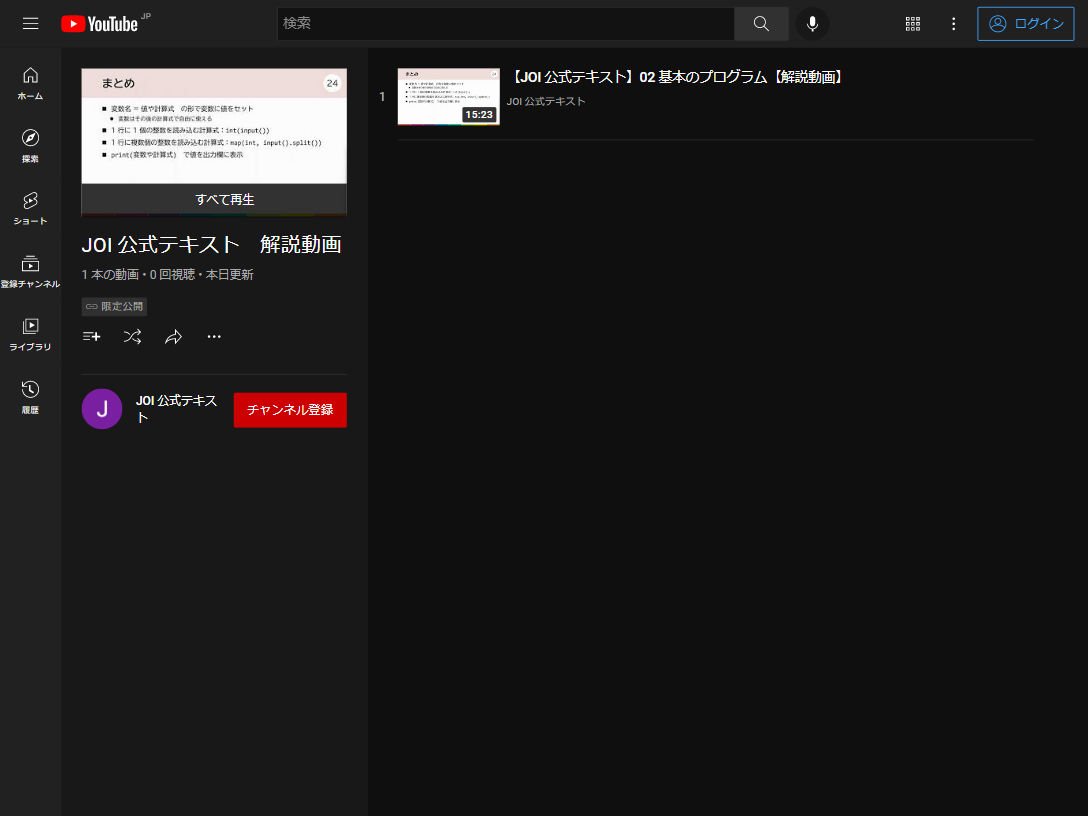
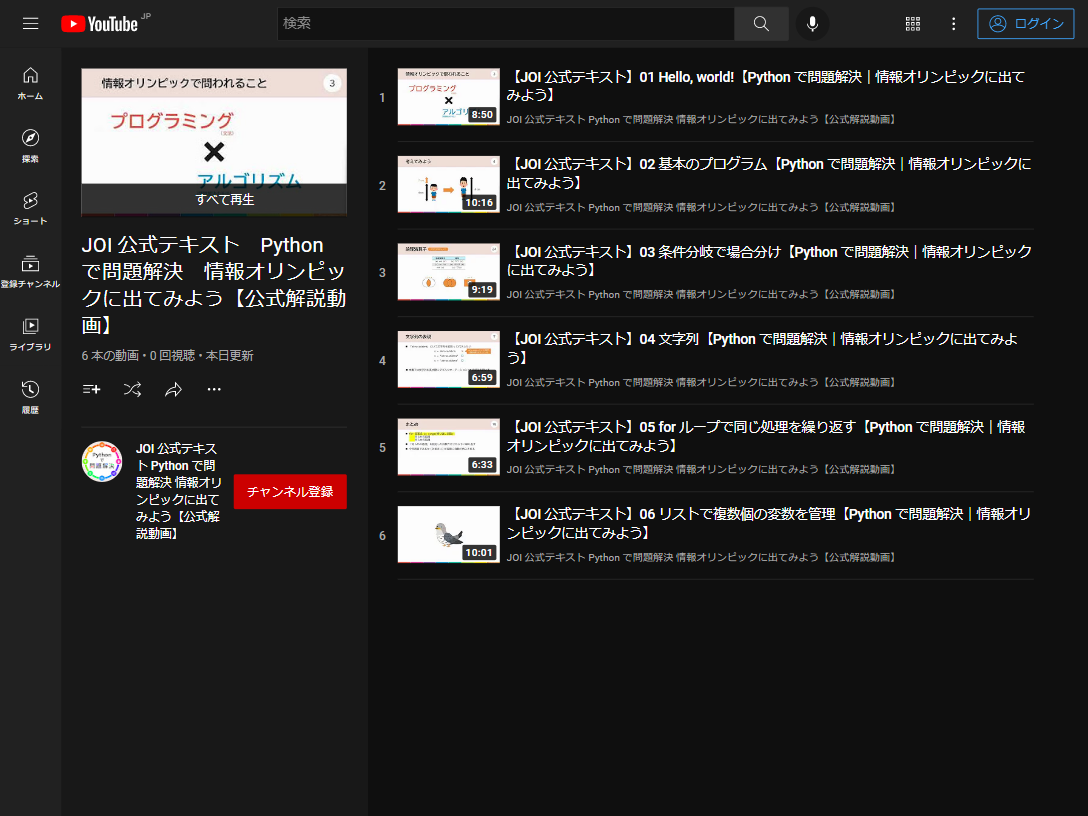
Update youtube play list

diff --git a/index.html b/index.html
@@ -5,16 +5,16 @@
   <meta charset="utf-8">
   <meta name="viewport" content="width=device-width, initial-scale=1, shrink-to-fit=no">
   <link href="index.css" rel="stylesheet">
-  <title>JOI 公式テキスト　Python で問題解決｜サポートページ</title>
+  <title>JOI 公式テキスト　Python で問題解決　情報オリンピックに出てみよう｜サポートページ</title>
 
   <meta name="description"
-    content="日本情報オリンピックの公式テキストが遂に登場！！ Python プログラミングからアルゴリズムまでを取り扱う一冊．未経験から本選進出までの道筋を提示．豊富なサンプルソース．自動採点システム完全対応．">
+    content="日本情報オリンピックの公式対策テキストが遂に登場！！ Pythonプログラミングからアルゴリズムまでを扱う一冊．未経験から本選進出までの道筋を提示．豊富なサンプルソース．過去問の自動採点システム対応．">
 
   <meta property="og:url" content="https://pro-ktmr.github.io/joi-text/" />
   <meta property="og:type" content="article" />
   <meta property="og:title" content="JOI 公式テキスト　Python で問題解決　情報オリンピックに出てみよう" />
   <meta property="og:description"
-    content="日本情報オリンピックの公式テキストが遂に登場！！ Python プログラミングからアルゴリズムまでを取り扱う一冊．未経験から本選進出までの道筋を提示．豊富なサンプルソース．自動採点システム完全対応．" />
+    content="日本情報オリンピックの公式対策テキストが遂に登場！！ Pythonプログラミングからアルゴリズムまでを扱う一冊．未経験から本選進出までの道筋を提示．豊富なサンプルソース．過去問の自動採点システム対応．" />
   <meta property="og:image" content="https://pro-ktmr.github.io/joi-text/img/ogp.jpg" />
   <meta property="og:site_name" content="JOI 公式テキスト　Python で問題解決　情報オリンピックに出てみよう" />
   <meta name="twitter:card" content="summary" />
@@ -43,7 +43,7 @@
   </div>
   <div class="top">
     <h2 class="book-copy">
-      <span class="no-break">日本情報オリンピックの</span><span class="no-break">公式テキストが</span><span class="no-break">遂に登場！！</span>
+      <span class="no-break">日本情報オリンピックの</span><span class="no-break">公式対策テキストが</span><span class="no-break">遂に登場！！</span>
     </h2>
     <div class="book">
       <div class="book-cover">
@@ -95,9 +95,9 @@
             <em>プログラミングとは何か</em>から説明
           </p>
           <p>
-            高難度の問題を解くための<em>アルゴリズム (問題解決の手法)</em> も解説</p>
+            高難易度の問題を解くための<em>アルゴリズム (問題解決の手法)</em> も解説</p>
           <p>
-            一冊で未経験から JOI 本選進出レベルまでを幅広くカバー
+            一冊で未経験から JOI 本選進出レベルまでを幅広く対策可能
           </p>
 
           <h3 style="color: #8459A0;">人気の Python を採用！</h3>
@@ -124,7 +124,7 @@
           <p>
             インターネット上でソースコードを提出すると，数秒で<em>自動採点</em></p>
           <p>
-            自分の理解度を確かめながら学習可能
+            過去問を解いて自分の理解度を確かめながら学習可能
           </p>
 
           <h3 style="color: #AEC941;">難解なアルゴリズムを丁寧に図解！</h3>
@@ -232,7 +232,7 @@
         例題や類題の AtCoder ページへリンクがはられた問題リスト．自分のユーザ名を入力すると達成状況が一目でわかる．
       </div>
     </a>
-    <a href="https://www.youtube.com/playlist?list=PL6OlXfFix0hUZU6OkqXUaVSXhe0dHlc0s" target="_blank" class="card">
+    <a href="https://www.youtube.com/playlist?list=PLLGAP7yC96VH9djJcpmPz3JPplcxg9t2k" target="_blank" class="card">
       <div class="card-img">
         <img src="img/youtube.png" alt="YouTube 再生リストのスクリーンショット">
       </div>
